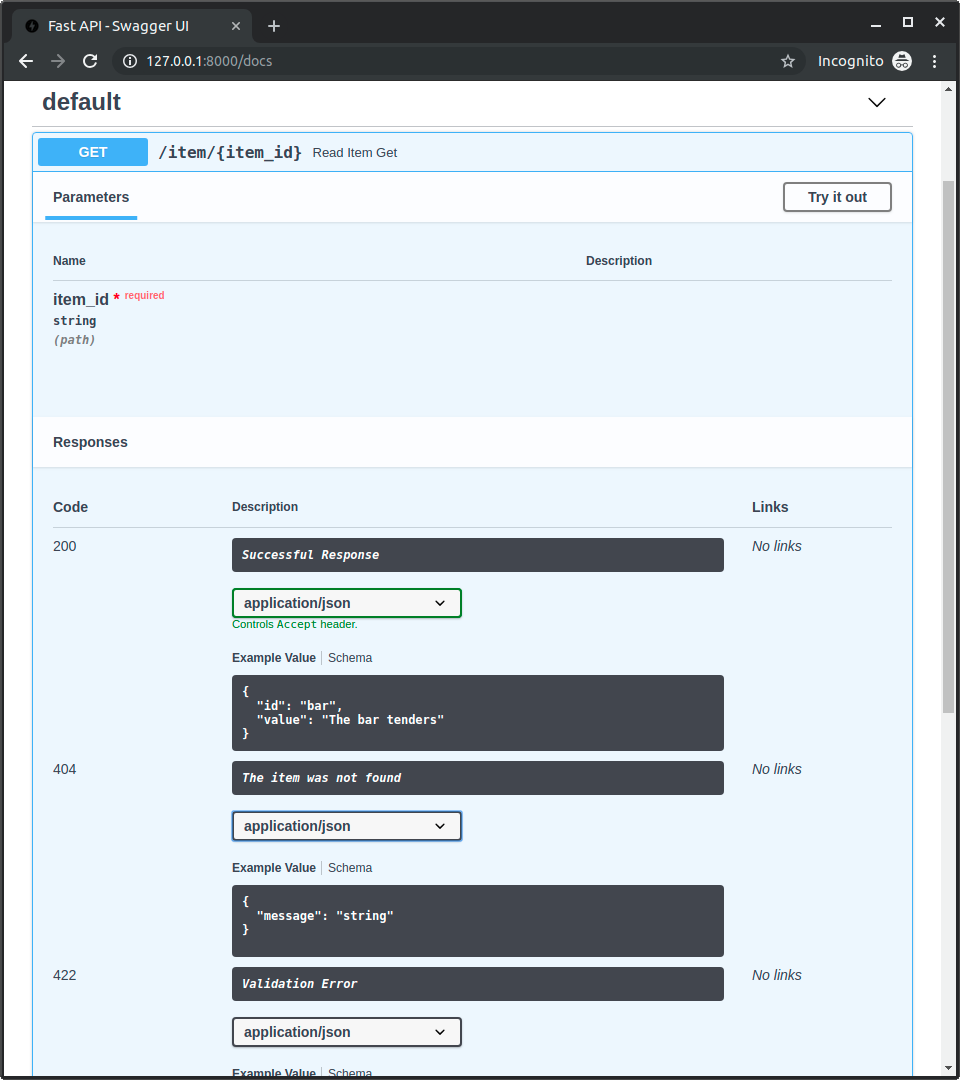
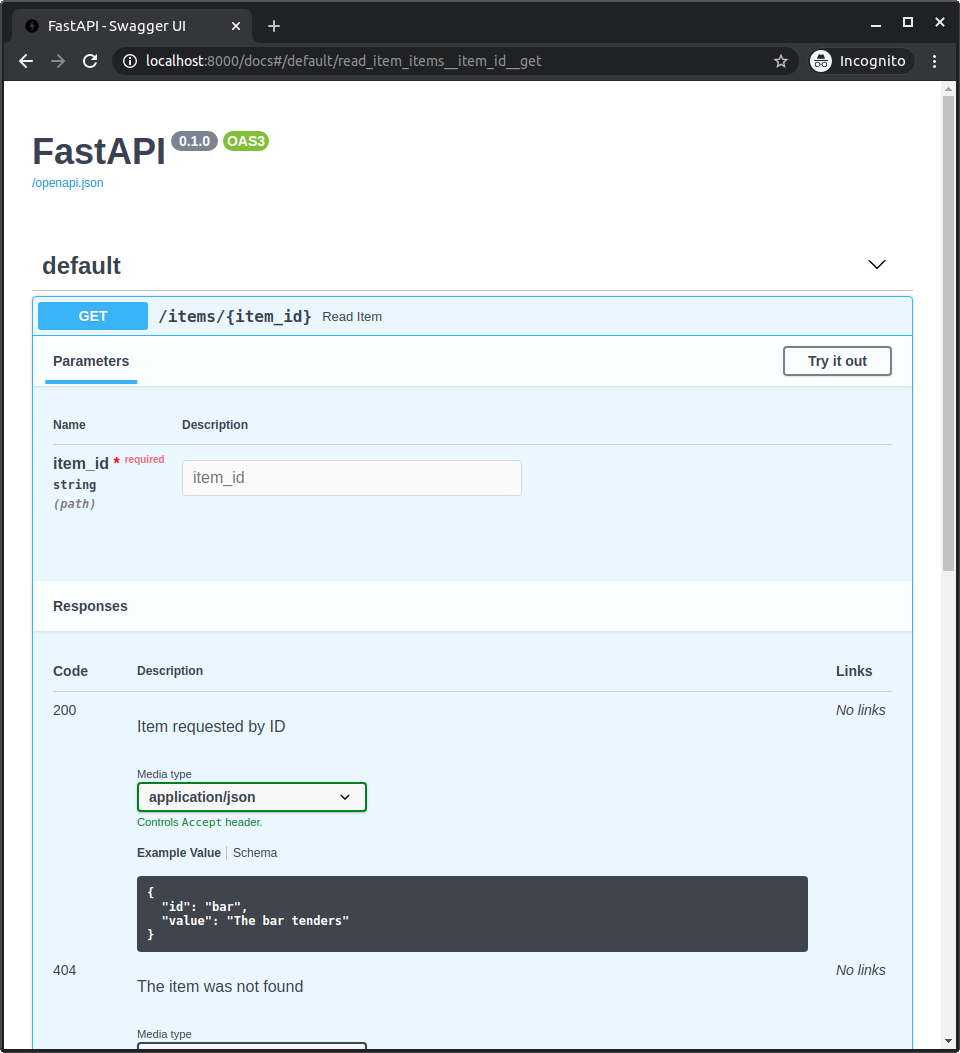
✨ Deep merge OpenAPI responses (#1577)
* override successful response

* ✨ Add deep_dict_udpate

* ✨ Merge additional responses with generated responses

* 🍱 Update docs screenshot

diff --git a/fastapi/openapi/utils.py b/fastapi/openapi/utils.py
@@ -14,6 +14,7 @@ from fastapi.openapi.constants import (
 from fastapi.openapi.models import OpenAPI
 from fastapi.params import Body, Param
 from fastapi.utils import (
+    deep_dict_update,
     generate_operation_id_for_path,
     get_field_info,
     get_model_definitions,
@@ -201,33 +202,6 @@ def get_openapi_path(
                     )
                     callbacks[callback.name] = {callback.path: cb_path}
                 operation["callbacks"] = callbacks
-            if route.responses:
-                for (additional_status_code, response) in route.responses.items():
-                    process_response = response.copy()
-                    assert isinstance(
-                        process_response, dict
-                    ), "An additional response must be a dict"
-                    field = route.response_fields.get(additional_status_code)
-                    if field:
-                        response_schema, _, _ = field_schema(
-                            field, model_name_map=model_name_map, ref_prefix=REF_PREFIX
-                        )
-                        process_response.setdefault("content", {}).setdefault(
-                            route_response_media_type or "application/json", {}
-                        )["schema"] = response_schema
-                    status_text: Optional[str] = status_code_ranges.get(
-                        str(additional_status_code).upper()
-                    ) or http.client.responses.get(int(additional_status_code))
-                    process_response.setdefault(
-                        "description", status_text or "Additional Response"
-                    )
-                    status_code_key = str(additional_status_code).upper()
-                    if status_code_key == "DEFAULT":
-                        status_code_key = "default"
-                    process_response.pop("model", None)
-                    operation.setdefault("responses", {})[
-                        status_code_key
-                    ] = process_response
             status_code = str(route.status_code)
             operation.setdefault("responses", {}).setdefault(status_code, {})[
                 "description"
@@ -251,7 +225,47 @@ def get_openapi_path(
                 ).setdefault("content", {}).setdefault(route_response_media_type, {})[
                     "schema"
                 ] = response_schema
-
+            if route.responses:
+                operation_responses = operation.setdefault("responses", {})
+                for (
+                    additional_status_code,
+                    additional_response,
+                ) in route.responses.items():
+                    process_response = additional_response.copy()
+                    process_response.pop("model", None)
+                    status_code_key = str(additional_status_code).upper()
+                    if status_code_key == "DEFAULT":
+                        status_code_key = "default"
+                    openapi_response = operation_responses.setdefault(
+                        status_code_key, {}
+                    )
+                    assert isinstance(
+                        process_response, dict
+                    ), "An additional response must be a dict"
+                    field = route.response_fields.get(additional_status_code)
+                    additional_field_schema: Optional[Dict[str, Any]] = None
+                    if field:
+                        additional_field_schema, _, _ = field_schema(
+                            field, model_name_map=model_name_map, ref_prefix=REF_PREFIX
+                        )
+                        media_type = route_response_media_type or "application/json"
+                        additional_schema = (
+                            process_response.setdefault("content", {})
+                            .setdefault(media_type, {})
+                            .setdefault("schema", {})
+                        )
+                        deep_dict_update(additional_schema, additional_field_schema)
+                    status_text: Optional[str] = status_code_ranges.get(
+                        str(additional_status_code).upper()
+                    ) or http.client.responses.get(int(additional_status_code))
+                    description = (
+                        process_response.get("description")
+                        or openapi_response.get("description")
+                        or status_text
+                        or "Additional Response"
+                    )
+                    deep_dict_update(openapi_response, process_response)
+                    openapi_response["description"] = description
             http422 = str(HTTP_422_UNPROCESSABLE_ENTITY)
             if (all_route_params or route.body_field) and not any(
                 [

diff --git a/fastapi/utils.py b/fastapi/utils.py
@@ -172,3 +172,15 @@ def generate_operation_id_for_path(*, name: str, path: str, method: str) -> str:
     operation_id = re.sub("[^0-9a-zA-Z_]", "_", operation_id)
     operation_id = operation_id + "_" + method.lower()
     return operation_id
+
+
+def deep_dict_update(main_dict: dict, update_dict: dict) -> None:
+    for key in update_dict:
+        if (
+            key in main_dict
+            and isinstance(main_dict[key], dict)
+            and isinstance(update_dict[key], dict)
+        ):
+            deep_dict_update(main_dict[key], update_dict[key])
+        else:
+            main_dict[key] = update_dict[key]

diff --git a/tests/test_tutorial/test_additional_responses/test_tutorial002.py b/tests/test_tutorial/test_additional_responses/test_tutorial002.py
@@ -15,7 +15,7 @@ openapi_schema = {
             "get": {
                 "responses": {
                     "200": {
-                        "description": "Successful Response",
+                        "description": "Return the JSON item or an image.",
                         "content": {
                             "image/png": {},
                             "application/json": {

diff --git a/tests/test_tutorial/test_additional_responses/test_tutorial003.py b/tests/test_tutorial/test_additional_responses/test_tutorial003.py
@@ -20,7 +20,7 @@ openapi_schema = {
                         },
                     },
                     "200": {
-                        "description": "Successful Response",
+                        "description": "Item requested by ID",
                         "content": {
                             "application/json": {
                                 "schema": {"$ref": "#/components/schemas/Item"},